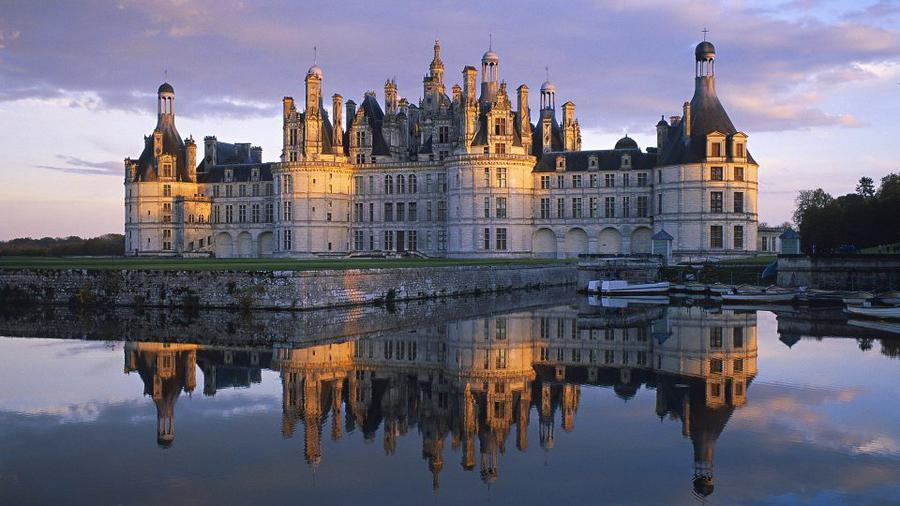
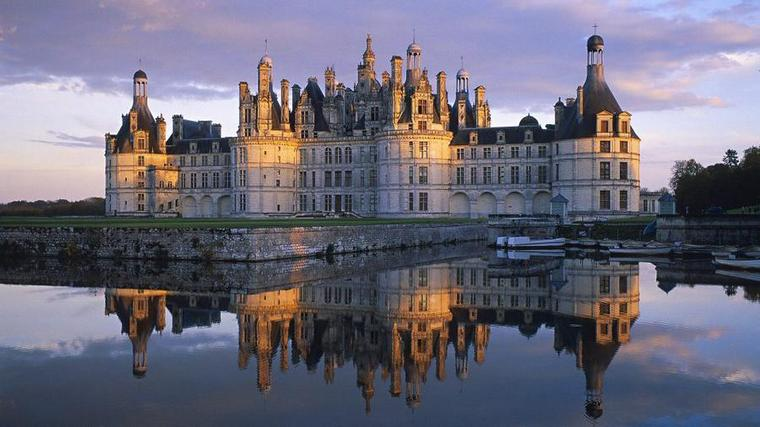
ajax comment

Changed region(s): [[0.5145, 0.274, 0.5447, 0.3044], [0.3329, 0.2131, 0.3632, 0.2436], [0.3026, 0.3044, 0.3329, 0.3349]]

diff --git a/app/assets/stylesheets/comments.sass b/app/assets/stylesheets/comments.sass
@@ -1,3 +1,48 @@
-// Place all the styles related to the Comments controller here.
-// They will automatically be included in application.css.
-// You can use Sass (SCSS) here: http://sass-lang.com/
+@import 'main.sass'
+
+.comment
+  background-color: #343434
+  margin-top: 10px
+  padding: 10px
+  border: solid
+    width: 1px
+    color: $comment-border
+    radius: 5px
+  h2
+    margin-left: 15px
+  #comment-header
+    margin: 0 5px 5px 5px
+    padding-bottom: 5px
+    border-bottom: solid
+      width: 1px
+      color: $accent
+
+
+  .comment-view
+    background-color: $comment-background
+    margin: 10px 5px 5px 5px
+    padding: 10px
+    border: solid
+      width: 1px
+      color: $comment-border
+      radius: 5px
+    .form-group
+      color: #F7F7F7
+  .comment-add
+    background-color: $comment-background
+    margin: 15px 5px 5px 5px
+    padding: 10px
+    border: solid
+      width: 1px
+      color: $comment-border
+      radius: 5px
+    .form-group
+      color: #F7F7F7
+  .deleteAction
+    cursor: pointer
+    color: $accent
+    &:hover
+      color: $accent-dark
+
+
+

diff --git a/app/assets/stylesheets/main.sass b/app/assets/stylesheets/main.sass
@@ -1,20 +1,31 @@
-$primary-color: deepskyblue
-$article: lightskyblue
+$primary: #434343
+$primary-dark: #343A40
+$primary-shade: #343434
+$accent: #17A2B8
+$accent-dark: #138496
+$comment-background: #343A40
+$comment-border: #999
 
 body
-  background-color: whitesmoke
+  background-color: $primary-dark
+  color: #EFEFEF
+  .header-top
+    background-color: $primary-shade
   .main
-    padding-top: 1em
+    padding: 10px 30px
     a
-      color: $primary-color
+      color: $accent
       text-decoration: none
       &:hover
-        color: $article
+        color: $accent-dark
     h1, h2
-      color: darkturquoise
+      color: $accent
   .field_with_errors
     label
       color: #d01612
     input, textarea
       border-color: #d01612
-
+  .bg-dark
+    background-color: $primary-shade !important
+  .products_list
+    background-color: #B00100

diff --git a/app/assets/stylesheets/posts.sass b/app/assets/stylesheets/posts.sass
@@ -10,11 +10,19 @@ article.post
     color: darkturquoise
   section.post-summary
     padding: .5em 0
+    .img-thumbnail
+      background-color: transparent
+      padding: 0
   section.post-body
     padding-top: 1em
+
   .img-show
     display: block
     margin-bottom: 2em
+    border: solid
+      color: $comment-border
+      radius: 4px
+      width: 1px
   .thumb
     float: left
     margin-right: 1em
@@ -30,5 +38,5 @@ article.post
     .tag
       padding: 0 0.25em 0.15em 0.25em
       border-radius: 0.4em
-      background-color: $primary-color
+      background-color: $accent
       color: #EFEFEF

diff --git a/app/assets/stylesheets/edit.sass b/app/assets/stylesheets/edit.sass
@@ -1,4 +1,17 @@
+@import 'main.sass'
+$edit-color: #F7F7F7
 .post-edit
-  max-width: 50%
+  background-color: $primary-shade
+  margin: 1em 0 2em
+  padding: 10px 30% 10px 15px
+  border: solid
+    color: $edit-color
+    width: 1px
+    radius: 3px
   .body-editor
-    background-color: white
+    background-color: $edit-color
+  #post_image
+    color: $edit-color
+
+  .trix-button
+    background-color: $edit-color

diff --git a/app/assets/javascripts/application.js b/app/assets/javascripts/application.js
@@ -11,9 +11,15 @@
 // about supported directives.
 //
 //= require rails-ujs
-//= require turbolinks
-//= require_tree .
 //= require jquery3
+//= require jquery_ujs
+//= require turbolinks
 //= require popper
 //= require bootstrap
+//= require pictures
+//= require posts
+//= require comments
 //= require trix
+
+
+

diff --git a/app/controllers/posts_controller.rb b/app/controllers/posts_controller.rb
@@ -7,6 +7,7 @@ class PostsController < ApplicationController
     @posts = Post.all
   end
 
+
   def show
 
   end
@@ -18,7 +19,7 @@ class PostsController < ApplicationController
   def create
     @post = Post.new(post_params)
     if @post.save
-      redirect_to @post, success: 'Post was success created' # направляет с сообщением зелёного цвета (бутстраповские алерты)
+      redirect_to @post, success: 'Post was success created' # направляет с сообщением зелёного цвета (бутстраповские алерты) /posts/
     else
       render :new , danger: 'Post wasn\'t created' # направляет с сообщением красного цвета (бутстраповские алерты)
     end
@@ -26,6 +27,10 @@ class PostsController < ApplicationController
 
   def edit
 
+  end
+
+  def edit_comment
+     render layout: false
   end
 
   def update
@@ -38,7 +43,6 @@ class PostsController < ApplicationController
   end
 
   def destroy
-
     @post.destroy
     redirect_to posts_path, success: 'Post was success deleted' # направляет с сообщением зелёного цвета (бутстраповские алерты)
   end

diff --git a/app/controllers/comments_controller.rb b/app/controllers/comments_controller.rb
@@ -6,6 +6,23 @@ class CommentsController < ApplicationController
     redirect_to post_path(@post)
   end
 
+  def update
+    if @post.update_attributes(comment_params)
+      redirect_to post_path(@post), success: 'Comment was success updated' # направляет с сообщением зелёного цвета (бутстраповские алерты)
+    else
+      render :edit, danger: 'Comment was not updated' # направляет с сообщением красного цвета (бутстраповские алерты)
+    end
+  end
+
+
+
+  def destroy
+    @post = Post.find(params[:post_id])
+    @comment = @post.comments.find(params[:id])
+    @comment.destroy
+    render json: { success: true}
+  end
+
   private
   def comment_params
     params.require(:comment).permit(:commenter, :body)

diff --git a/config/routes.rb b/config/routes.rb
@@ -1,12 +1,14 @@
 Rails.application.routes.draw do
   scope "(:locale)", locale: /#{I18n.available_locales.join("|")}/ do
     root 'posts#index'
+    get 'add-to-cart' => 'posts#add_to_cart'
     resources :posts
     resources :pictures, only: [:create, :destroy]
     resources :tags, only: [:show]
     resources :posts do
       resources :comments
     end
+
   end
 
   # For details on the DSL available within this file, see http://guides.rubyonrails.org/routing.html

diff --git a/app/uploaders/image_uploader.rb b/app/uploaders/image_uploader.rb
@@ -30,7 +30,7 @@ class ImageUploader < CarrierWave::Uploader::Base
 
   # Create different versions of your uploaded files:
   version :large do
-    process resize_to_fit: [900, 500]
+    process resize_to_fit: [750, 500]
   end
 
   version :thumb do
